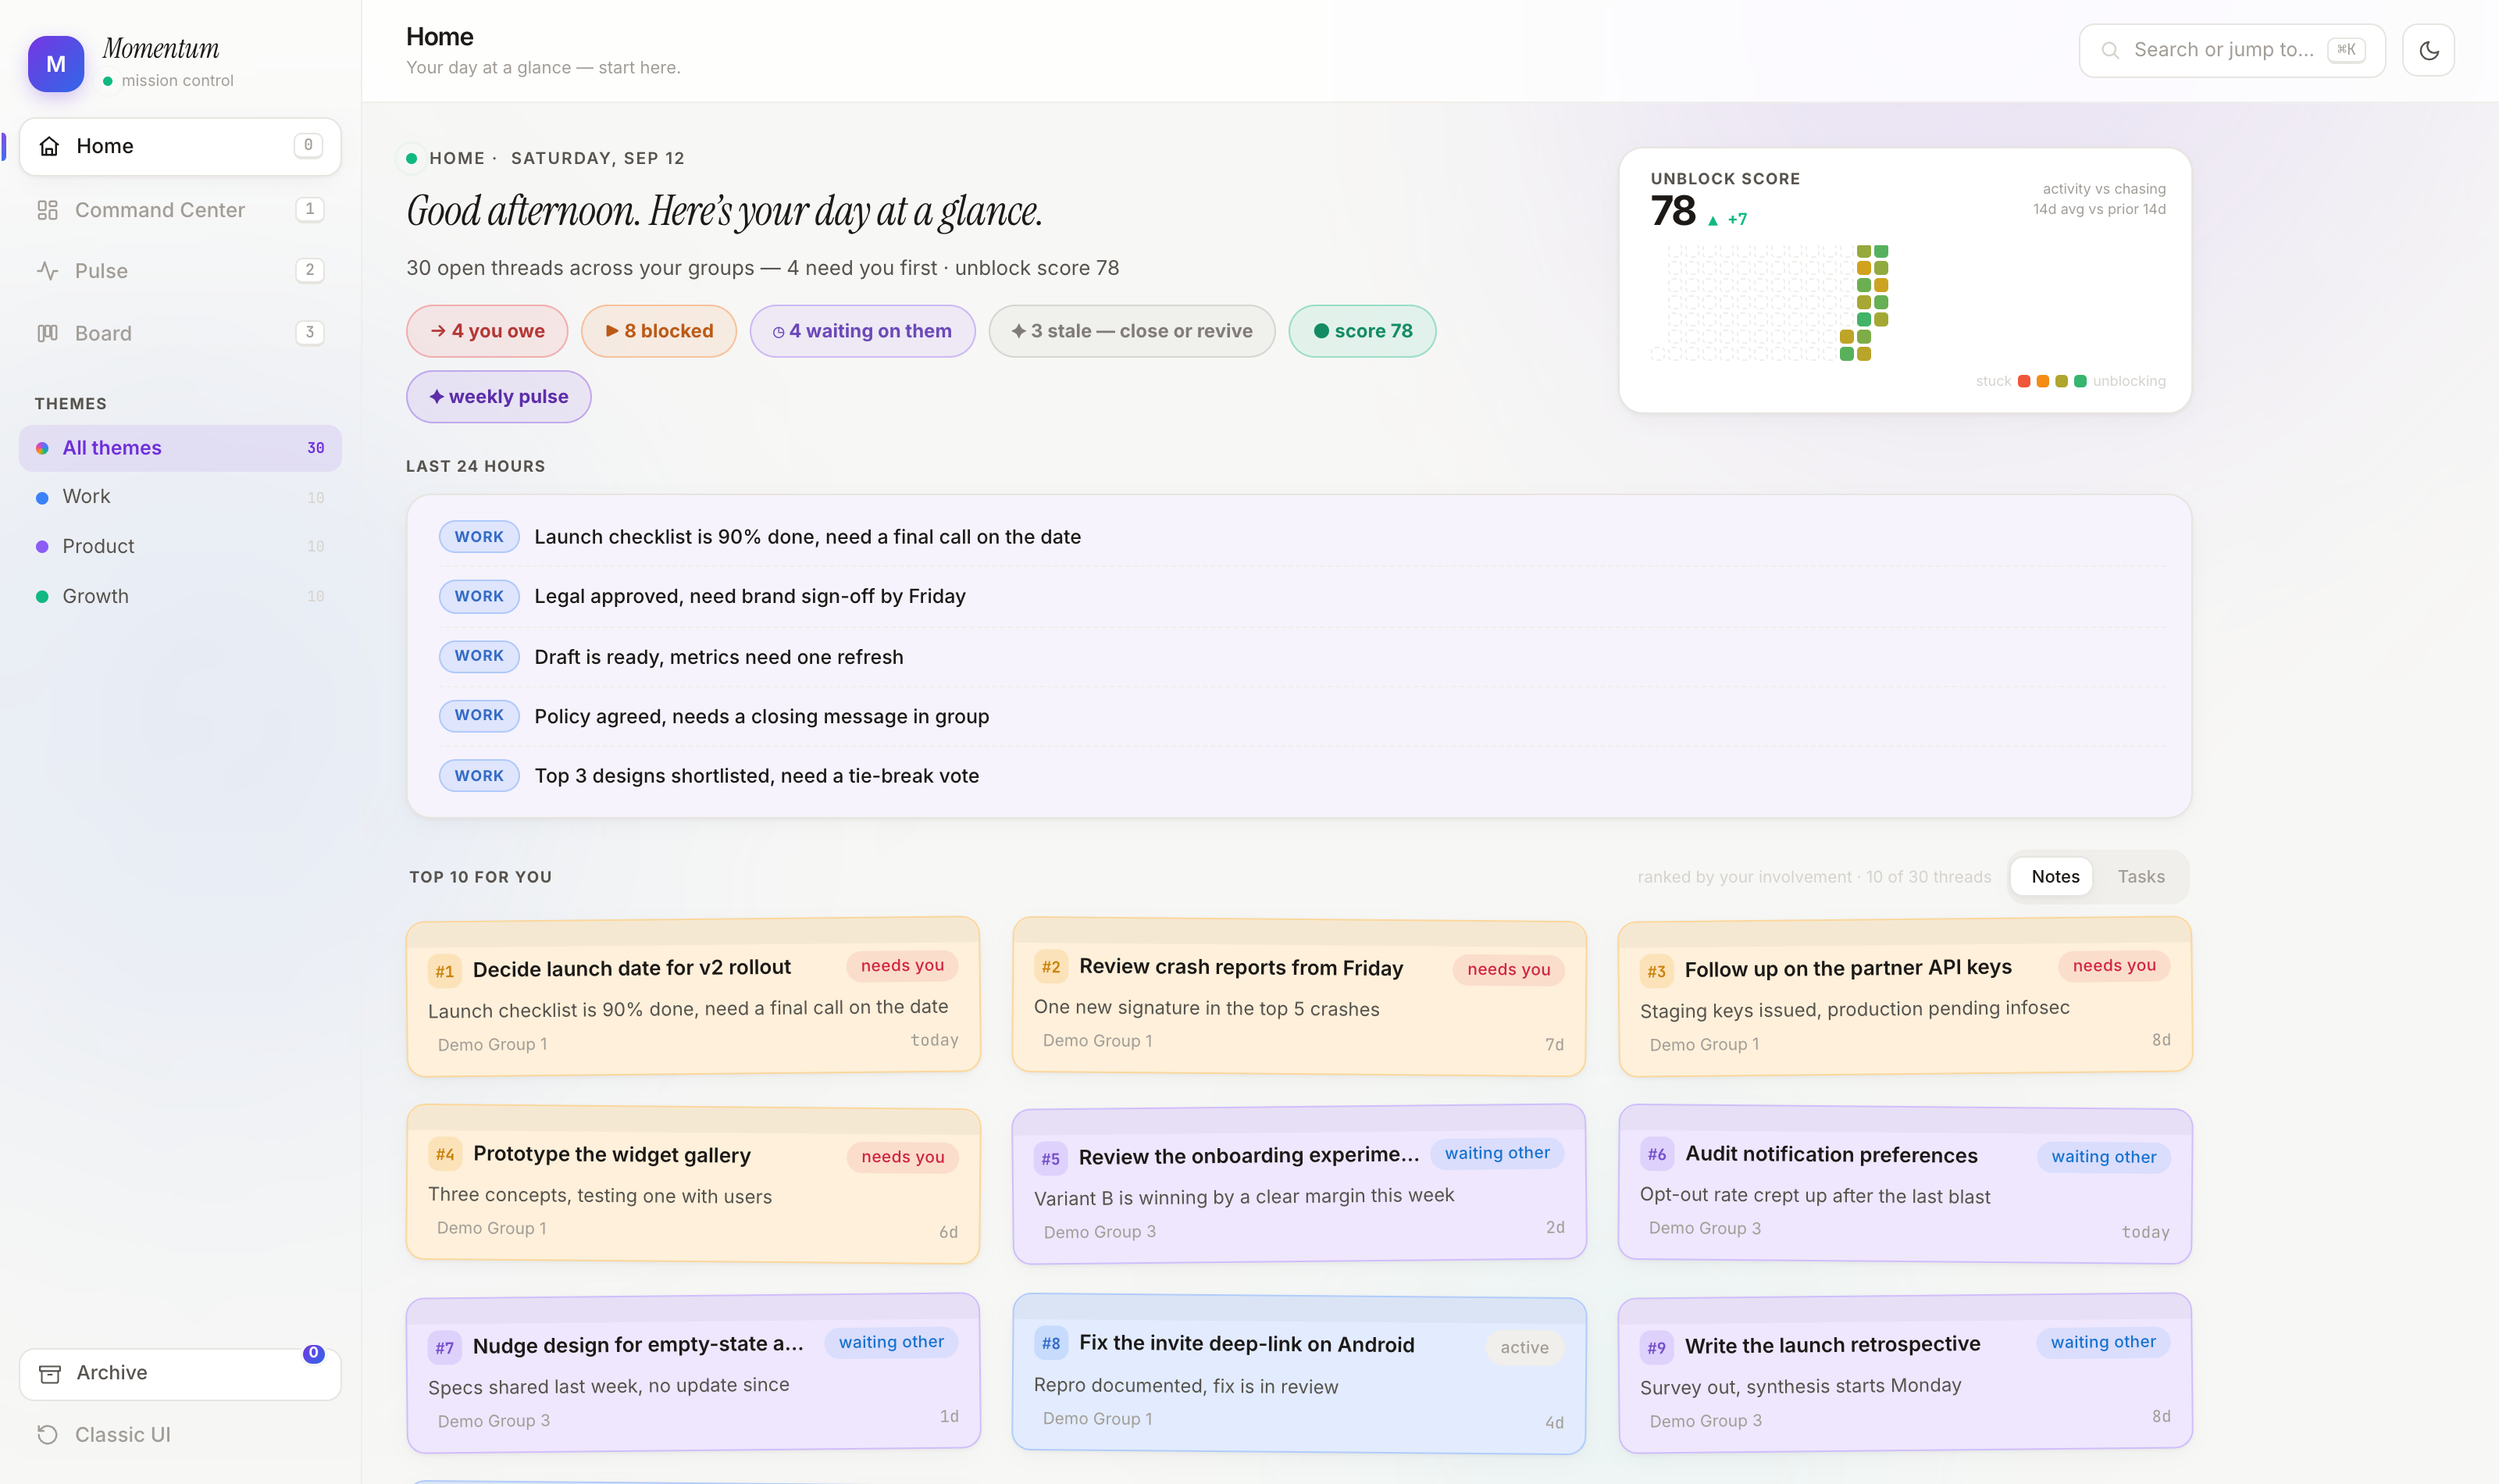
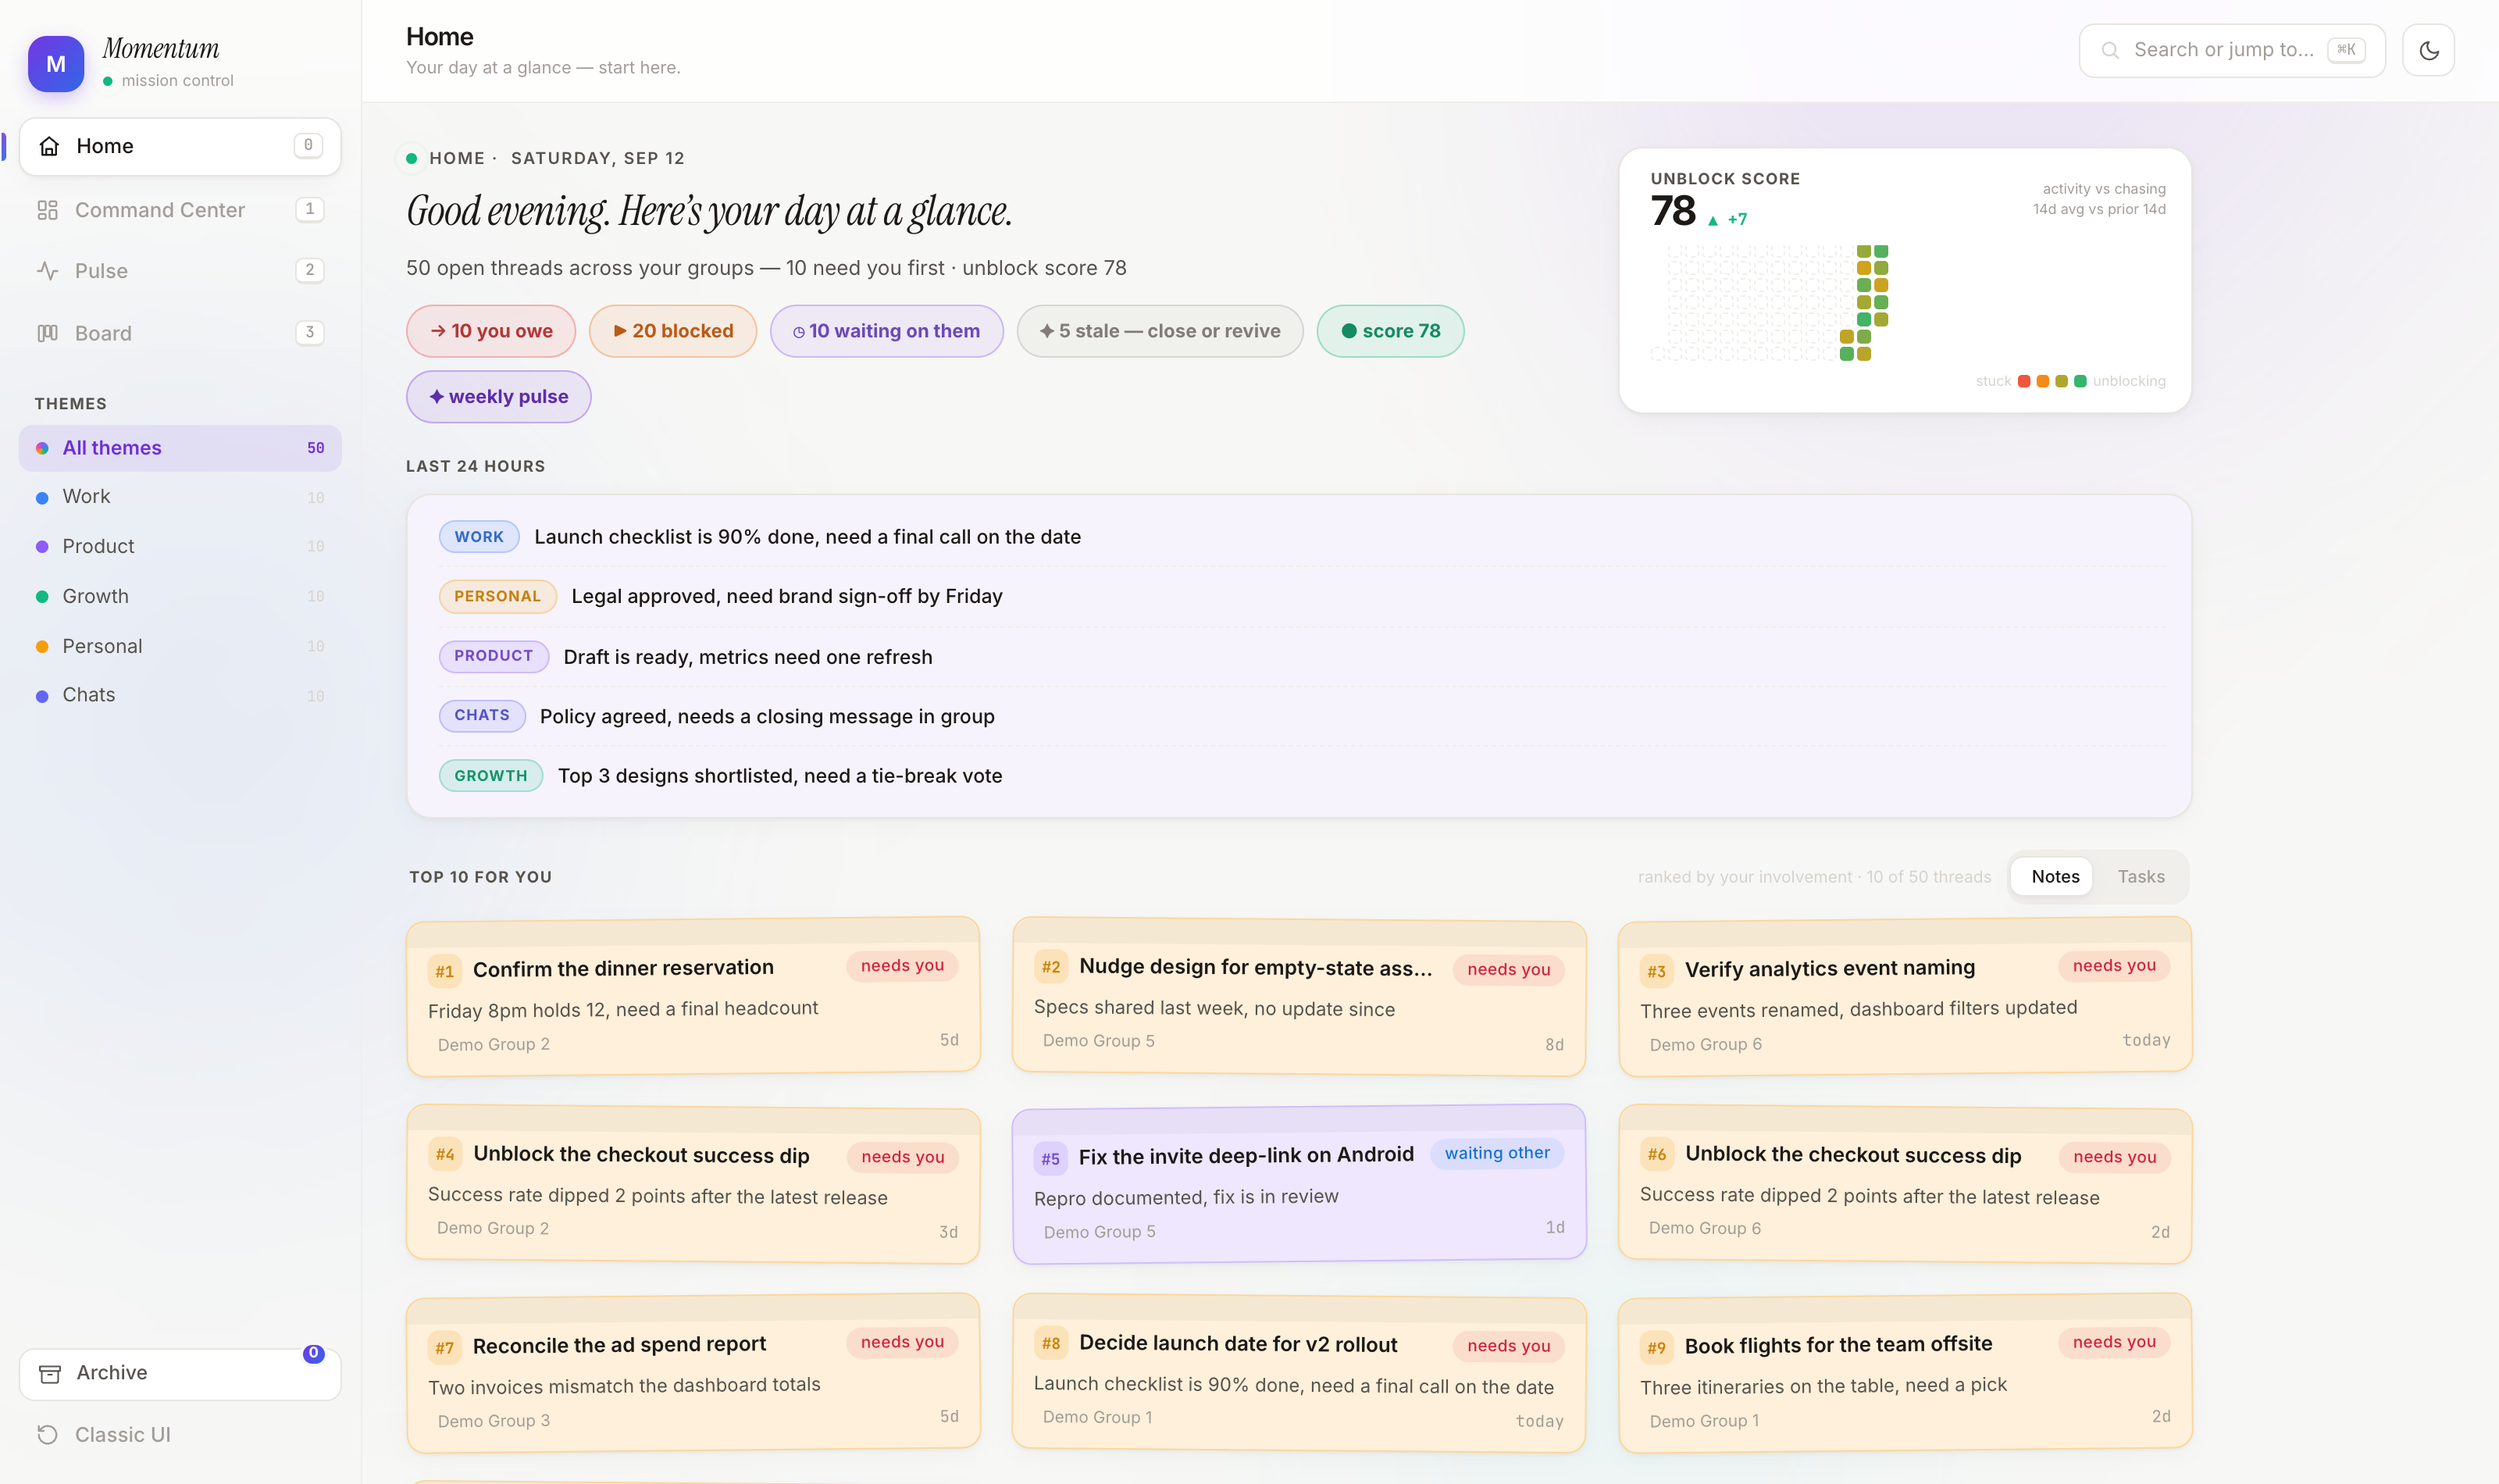
Showcase: richer demo Atlas (5 themes), thread pane + reply studio shot

diff --git a/app/demo_seed.py b/app/demo_seed.py
@@ -4,11 +4,20 @@ import datetime, json, random
 PEOPLE = ['Alex Morgan', 'Priya Nair', 'Rohan Mehta', 'Sara Iqbal',
           'Dev Patel', 'Neha Rao', 'Kiran Das', 'Anika Shah']
 THEMES = [
-    ('work', 'Work', '#3b82f6', ['planning', 'launches', 'reviews', 'hiring', 'ops']),
-    ('product', 'Product', '#8b5cf6', ['roadmap', 'bugs', 'design', 'analytics', 'mobile']),
-    ('growth', 'Growth', '#10b981', ['campaigns', 'onboarding', 'referrals', 'pricing', 'email']),
+    ('work', 'Work', ['planning', 'launches', 'reviews', 'hiring', 'ops']),
+    ('product', 'Product', ['roadmap', 'bugs', 'design', 'analytics', 'mobile']),
+    ('growth', 'Growth', ['campaigns', 'onboarding', 'referrals', 'pricing', 'email']),
+    ('personal', 'Personal', ['travel', 'finance', 'health', 'events', 'home']),
+    ('chats', 'Chats', ['general', 'announcements', 'intros', 'events', 'random']),
 ]
-STATES = ['needs_you', 'blocked', 'waiting_other', 'active', 'active', 'active', 'stale', 'done']
+# tasks per sub-index within a theme + their states (heat concentrated up front)
+SUB_PLAN = [
+    (3, ['needs_you', 'needs_you', 'blocked']),
+    (2, ['blocked', 'waiting_other']),
+    (2, ['waiting_other', 'active']),
+    (2, ['active', 'stale']),
+    (1, ['done']),
+]
 STATUS_OF = {'needs_you': 'running', 'blocked': 'blocked', 'waiting_other': 'running',
              'active': 'running', 'stale': 'running', 'done': 'completed'}
 TITLES = [
@@ -42,6 +51,16 @@ TITLES = [
     ('Triage the support backlog', 'Oldest ticket is 11 days old, needs an owner'),
     ('Refresh the status page copy', 'Incident wording approved by support'),
     ('Evaluate the new search vendor', 'POC results beat the baseline by 18%'),
+    ('Book flights for the team offsite', 'Three itineraries on the table, need a pick'),
+    ('Confirm the dinner reservation', 'Friday 8pm holds 12, need a final headcount'),
+    ('Split the grocery bill fairly', 'Receipt posted, two items disputed'),
+    ('Pick a weekend trek route', 'Two moderate trails shortlisted near town'),
+    ('Renew the apartment lease', 'Landlord offered 5% hike, counter with 3%'),
+    ('Schedule the dentist appointment', 'Two slots open next week'),
+    ('Organize the photo album', 'Beach trip folder needs sorting'),
+    ('Vote on the movie night pick', 'Comedy leads by two votes'),
+    ('Plan the anniversary surprise', 'Venue shortlisted, guest list pending'),
+    ('Welcome the new joiners', 'Intros posted, buddy pairs assigned'),
 ]
 MSGS = [
     'Draft is ready for review, please check the latest build.',
@@ -58,43 +77,43 @@ MSGS = [
 
 
 def write(path):
-    rng = random.Random(42)
+    rng = random.Random(7)
     now = datetime.datetime.now(datetime.timezone.utc)
-    tasks, groups_seen = [], set()
-    k = 0
-    for ti, (title, one) in enumerate(TITLES):
-        theme, tlabel, tcolor, subs = THEMES[ti % len(THEMES)]
-        sub = subs[ti % len(subs)]
-        state = STATES[ti % len(STATES)]
-        status = STATUS_OF[state]
-        gname = f'Demo Group {ti % 4 + 1}'
-        groups_seen.add(gname)
-        age_d = ti % 9
-        last = now - datetime.timedelta(days=age_d, hours=ti % 20)
-        senders = rng.sample(PEOPLE, 3)
-        msgs = [{'sender': senders[j % 3], 'body': MSGS[(ti + j) % len(MSGS)],
-                 'time': (last - datetime.timedelta(hours=j * 5)).isoformat()} for j in range(6)]
-        owner = 'You' if state == 'needs_you' else senders[0]
-        tasks.append({
-            'id': f'demo::{theme}::{k}', 'theme': theme, 'sub_theme': sub,
-            'topics': [sub], 'title': title, 'one_liner': one, 'kind': 'ask',
-            'status': status, 'owner': owner,
-            'requester': senders[1] if state != 'waiting_other' else 'You',
-            'due': '', 'needs_my_action': state == 'needs_you',
-            'waiting_on': senders[2] if state == 'waiting_other' else '',
-            'stale': state == 'stale', 'nudges': ti % 3,
-            'age': 'today' if age_d == 0 else f'{age_d}d',
-            'age_days': age_d, 'msg_count': 6, 'recap': one,
-            'people': senders, 'participants': senders,
-            'groups': [gname], 'group': gname, 'last_ts': last.isoformat(),
-            'messages': msgs, 'state': state, 'theme_label': tlabel,
-        })
-        k += 1
+    tasks, groups_seen, ti = [], set(), 0
+    for theme, tlabel, subs in THEMES:
+        for si, sub in enumerate(subs):
+            count, states = SUB_PLAN[si % len(SUB_PLAN)]
+            for j in range(count):
+                title, one = TITLES[ti % len(TITLES)]
+                state = states[j % len(states)]
+                gname = f'Demo Group {(ti % 6) + 1}'
+                groups_seen.add(gname)
+                age_d = (ti * 3) % 11
+                last = now - datetime.timedelta(days=age_d, hours=(ti * 5) % 20)
+                senders = rng.sample(PEOPLE, 3)
+                msgs = [{'sender': senders[(ti + m) % 3], 'body': MSGS[(ti + m) % len(MSGS)],
+                         'time': (last - datetime.timedelta(hours=m * 5)).isoformat()}
+                        for m in range(6)]
+                tasks.append({
+                    'id': f'demo::{theme}::{ti}', 'theme': theme, 'sub_theme': sub,
+                    'topics': [sub], 'title': title, 'one_liner': one, 'kind': 'ask',
+                    'status': STATUS_OF[state],
+                    'owner': 'You' if state == 'needs_you' else senders[0],
+                    'requester': senders[1] if state != 'waiting_other' else 'You',
+                    'due': '', 'needs_my_action': state == 'needs_you',
+                    'waiting_on': senders[2] if state == 'waiting_other' else '',
+                    'stale': state == 'stale', 'nudges': ti % 3,
+                    'age': 'today' if age_d == 0 else f'{age_d}d',
+                    'age_days': age_d, 'msg_count': 6, 'recap': one,
+                    'people': senders, 'participants': senders,
+                    'groups': [gname], 'group': gname, 'last_ts': last.isoformat(),
+                    'messages': msgs, 'state': state, 'theme_label': tlabel,
+                })
+                ti += 1
     atlas = []
-    for theme, tlabel, tcolor, subs in THEMES:
-        ts = [t for t in tasks if t['theme'] == theme]
+    for theme, tlabel, subs in THEMES:
         for sub in subs:
-            sts = [t for t in ts if t['sub_theme'] == sub]
+            sts = [t for t in tasks if t['theme'] == theme and t['sub_theme'] == sub]
             if not sts:
                 continue
             states = {s: 0 for s in ('needs_you', 'blocked', 'waiting_other', 'active', 'stale', 'done')}
@@ -119,7 +138,7 @@ def write(path):
     for h in (0, 3, 6, 9, 12, 15, 18, 21):
         start = (now - datetime.timedelta(hours=h)).replace(minute=0, second=0, microsecond=0)
         devs = [{'text': TITLES[(h + j) % len(TITLES)][1],
-                 'group': f'Demo Group {(h + j) % 4 + 1}',
+                 'group': f'Demo Group {(h + j) % 6 + 1}',
                  'theme': THEMES[(h + j) % len(THEMES)][0], 'msg_count': 6 - j % 4}
                 for j in range(3)]
         bulletins.append({'start': start.isoformat(), 'developments': devs})
@@ -127,14 +146,15 @@ def write(path):
         'exported_at': now.isoformat(), 'window_days': 30,
         'total_groups': len(groups_seen), 'total_messages': len(tasks) * 6,
         'total_tasks': len(tasks), 'tasks': tasks, 'group_jids': {},
-        'map': [{'theme': t[0], 'theme_label': t[1], 'tasks': sum(1 for x in tasks if x['theme'] == t[0]),
+        'map': [{'theme': t[0], 'theme_label': t[1],
+                 'tasks': sum(1 for x in tasks if x['theme'] == t[0]),
                  'msgs': sum(x['msg_count'] for x in tasks if x['theme'] == t[0]),
                  'attention': sum(a['attention'] for a in atlas if a['theme'] == t[0]),
                  'subs': [a for a in atlas if a['theme'] == t[0]]} for t in THEMES],
         'health_wall': {'days': days, 'score': 78, 'prev_score': 71,
                         'best': max(scored) if scored else 0},
         'bulletins': bulletins, 'days': days[-7:],
-        'week': {'intro': 'Demo week: launches on track, two threads need you.'},
+        'week': {'intro': 'Demo week: launches on track, a few threads need you.'},
     }
     with open(path, 'w') as f:
         json.dump(out, f, indent=1)

diff --git a/README.md b/README.md
@@ -25,6 +25,14 @@ prior 14.
 
 ![Command Center](assets/command.png)
 
+### Thread detail — read it, draft it, send it
+Every card opens the full thread: AI recap, WhatsApp-style chat history, people
+involved — and a **reply studio**. Pick an intent (nudge, escalate, status ask…),
+draft 4–6 replies in your voice with Gemini, edit, attach the task context, and
+hit **Send** — or copy it out. Dry-run until you flip `MOMENTUM_LIVE=1`.
+
+![Thread detail](assets/thread.png)
+
 ### Pulse — what happened
 3-hour bulletin windows, 7 day digests, and one weekly storyline — cross-group,
 no noise.
